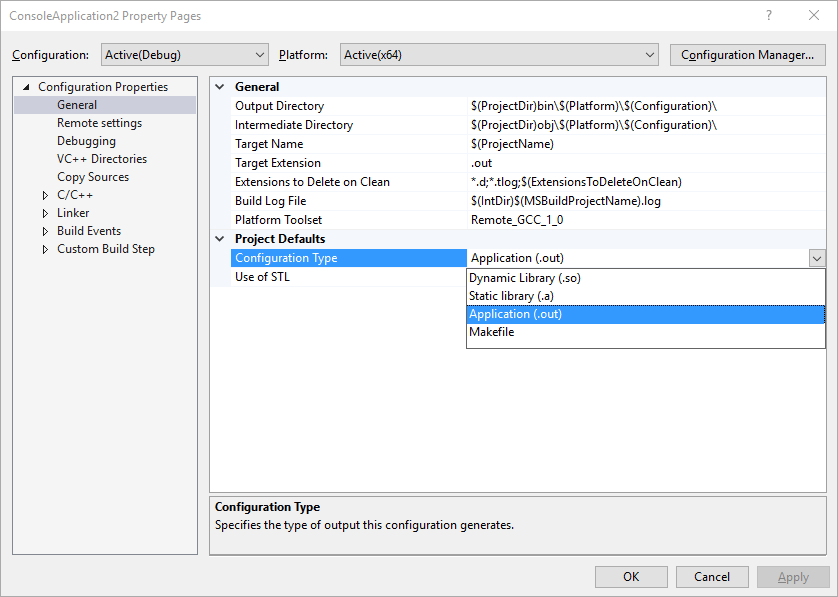
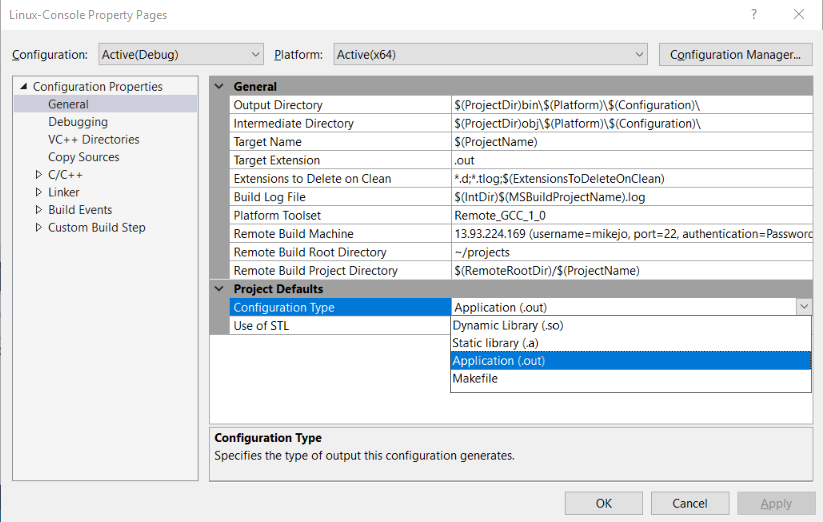
refresh of Linux run and debugging content

Changed region(s): [[0.0, 0.0, 1.0, 1.0], [0.9113, 0.0, 0.9721, 0.0307], [0.0, 0.9808, 0.0304, 1.0]]

diff --git a/docs/linux/configure-a-linux-project.md b/docs/linux/configure-a-linux-project.md
@@ -1,7 +1,7 @@
 ---
-title: "Configure a Linux Project | Microsoft Docs"
+title: "Configure a Linux project | Microsoft Docs"
 ms.custom: ""
-ms.date: "11/16/2016"
+ms.date: "11/06/2017"
 ms.reviewer: ""
 ms.suite: ""
 ms.technology: ["cpp-linux"]
@@ -13,29 +13,28 @@ ms.author: "corob"
 manager: "ghogen"
 ---
 
-# Configure a Linux Project
+# Configure a Linux project
 
-## General Settings
-A variety of options can be configured for a Linux project with Visual Studio.  To view these options, select the **Project > Properties** menu, or right click on the project in **Solution Explorer** and select **Properties** from the context menu:
+## General settings
+A variety of options can be configured for a Linux project with Visual Studio.  To view these options, select the **Project > Properties** menu, or right click on the project in **Solution Explorer** and select **Properties** from the context menu. The **General** settings appear.
 
 ![General configuration](media/settings_general.png)
 
 By default, an executable (.out) is built with the tool.  To build a static or dynamic library, or to use an existing Makefile, use the **Configuration Type** selection.
 
-## Remote Settings
-To change settings pertaining to the remote Linux computer, select the **Remote settings** item:
+## Remote settings
+To change settings pertaining to the remote Linux computer, configure the remote options that appear in the **General** settings:
 
-![Remote settings](media/settings_remote.png)
+* To change the target Linux computer, use the **Remote Build Machine** entry.  This will allow you to select one of the connections created previously.  To create a new entry, please see the [Connecting to Your Remote Linux Computer](connect-to-your-remote-linux-computer.md) section.
 
-* To change the target Linux computer, use the **Target machine** entry.  This will allow you to select one of the connections created previously.  To create a new entry, please see the [Connecting to Your Remote Linux Computer](connect-to-your-remote-linux-computer.md) section.
+* The **Remote Build Root Directory** determines the root location of where the project is built on the remote Linux computer.  This will default to **~/projects** unless changed.
 
-* The **Remote Root Directory** determines the root location of where the project is built on the remote Linux computer.  This will default to **~/projects** unless changed.
+* The **Remote Build Project Directory** is where this specific project will be built on the remote Linux computer.  This will default to **$(RemoteRootDir)/$(ProjectName)**, which will expand to a directory named after the current project, under the root directory set above.
 
-* The **Remote Project Directory** is where this specific project will be built on the remote Linux computer.  This will default to **$(RemoteRootDir)/$(ProjectName)**, which will expand to a directory named after the current project, under the root directory set above.
+> [!NOTE]
+> To change the default C and C++ compilers, or the Linker and Archiver used to build the project, use the appropriate entries in the **C/C++ > General** section and the **Linker > General** section.  These could be set to use a certain version of GCC, or even the Clang compiler, for example.
 
-* Finally, to change the default C and C++ compilers, or the Linker and Archiver used to build the project, use the appropriate entries in the **Tools Defaults** section.  These could be set to use a certain version of GCC, or even the Clang compiler, for example.
-
-## VC++ Directories
+## VC++ directories
 By default, Visual Studio does not include any system-level include files from the Linux computer.  For example, items in the **/usr/include** directory are not present in Visual Studio.  For full [IntelliSense](/visualstudio/ide/using-intellisense) support, you will need to copy those files to some location on your development computer and point Visual Studio to this location.  One option is to use scp (Secure Copy) to copy the files.  On Windows 10, you can use [Bash on Windows](https://msdn.microsoft.com/commandline/wsl/about) to run scp.  For previous versions of Windows, you could use something like [PSCP (PuTTY Secure Copy)](http://www.chiark.greenend.org.uk/~sgtatham/putty/download.html).
 
 You can copy the files by using a command similar to the following:
@@ -48,7 +47,7 @@ Once the files are copied, use the **VC++ Directories** item in Project properti
 
 ![VC++ Directories](media/settings_directories.png)
 
-## Copy Sources
+## Copy sources
 When building, the source files on your development PC are copied to the Linux computer and compiled there.  By default, all sources in the Visual Studio project are copied to the locations set in the settings above.  However, additional sources can also be added to the list, or copying sources can be turned off entirely, which is the default for a Makefile project.
 
 * **Sources to copy** determines which sources are copied to the remote computer.  By default, the **@(SourcesToCopyRemotely)** defaults to all source code files in the project, but does not include any asset/resource files, such as images.
@@ -59,8 +58,8 @@ When building, the source files on your development PC are copied to the Linux c
 
   `C:\Projects\ConsoleApplication1\MyFile.cpp:=~/projects/ConsoleApplication1/ADifferentName.cpp;C:\Projects\ConsoleApplication1\MyFile2.cpp:=~/projects/ConsoleApplication1/ADifferentName2.cpp;`
 
-## Build Events
-Since all compilation is happening on a remote computer, several additional Build Events have been added to the Build Events section in Project Properties.  These are **Remote Pre-Build Event**, **Remote Pre-Link Event**, and **Remove Post-Build Event**, and will occur on the remote computer before or after the individual steps in the process.
+## Build events
+Since all compilation is happening on a remote computer, several additional Build Events have been added to the Build Events section in Project Properties.  These are **Remote Pre-Build Event**, **Remote Pre-Link Event**, and **Remote Post-Build Event**, and will occur on the remote computer before or after the individual steps in the process.
 
 ![Build Events](media/settings_buildevents.png)
 

diff --git a/docs/linux/deploy-run-and-debug-your-linux-project.md b/docs/linux/deploy-run-and-debug-your-linux-project.md
@@ -1,7 +1,7 @@
 ---
-title: "Deploy, Run, and Debug Your Linux Project | Microsoft Docs"
+title: "Deploy, run, and debug Your Linux project | Microsoft Docs"
 ms.custom: ""
-ms.date: "11/16/2016"
+ms.date: "11/06/2017"
 ms.reviewer: ""
 ms.suite: ""
 ms.technology: ["cpp-linux"]
@@ -13,17 +13,53 @@ ms.author: "corob"
 manager: "ghogen"
 ---
 
-# Deploy, Run, and Debug Your Project
+# Deploy, run, and debug your Linux project
 
-Now that the project is created, you will need to connect to your Linux computer, which is where the code will be compiled, executed, and debugged.
-
-1. Set the remote target architecture using the standard dropdown in Visual Studio as shown:
-   ![Remote Architecture](media/architecture.png)
+Once you have created a Linux project and you have connected to the project using the [Linux Connection Manager](../linux/connect-to-your-remote-linux-computer.md), you can run and debug the project. You compile, execute, and debug the code on the remote target.
 
 There are several ways to interact with and debug your Linux project.
 
-* The traditional Visual Studio features, such as breakpoints, watch windows, and hovering over a variable, will all work as expected, so you may debug as you normally would.
-* A special Linux Console window can be opened with the **Debug > Linux Console** menu item.
+* Debug using traditional Visual Studio features, such as breakpoints, watch windows, and hovering over a variable, so you may debug as you normally would in other project types.
+* View output from the target computer in a special Linux Console window, which you can also use to send input to the target computer.
+
+## Debug your Linux project
+
+1. Select debugging mode in the **Debugging** property page.
+
+    GDB is used to debug applications running on Linux.  However, this can run in two different modes, which can be selected from the **Debugging Mode** option in the project's **Debugging** property page:
+
+    ![GDB options](media/settings_debugger.png)
+
+    - In **gdbserver** mode, GDB is run locally which connects to gdbserver running on the remote system.  Note that this is the only mode which the Linux Console window supports.
+
+    - In **gdb** mode, the Visual Studio debugger drives GDB on the remote system, which is more compatible if the local version of GDB is not compatible with the version installed on the target computer. |
+
+    > [!NOTE] 
+    > If you are unable to hit breakpoints in gdbserver debugging mode, try gdb mode. gdb must first be [installed](../linux/download-install-and-setup-the-linux-development-workload.md) on the remote target.
+
+2. Select the remote target using the standard **Debug** toolbar in Visual Studio.
+
+    When the remote target is available, you will see it listed by either name or IP address.
+
+    ![Remote target](media/remote_target.png)
+
+    If you have not yet connected to the remote target, you will see an instruction to use [Linux Connection Manager](../linux/connect-to-your-remote-linux-computer.md) to connect to the remote target.
+
+    ![Remote Architecture](media/architecture.png)
+
+3. Set a breakpoint by clicking in the left gutter of some code that you know will execut. A red circle appears.
+
+4. Press **F5** (or **Debug > Start Debugging**) to start debugging.
+
+    When you start debugging the application first will be compiled on the remote target. Any compilation errors will appear in the **Error List** window.
+
+    If there are no errors, the app will start and the debugger will pause at the breakpoint.
+
+    ![Hit a breakpoint](media/hit_breakpoint.png)  
+
+    Now, you can interact with the application in it's current state, view variables, and step through code by pressing command keys such as **F10** or **F11**.
+
+4. If you want to use the Linux Console to interact with your app, select **Debug > Linux Console**.
 
   ![Linux Console menu](media/consolemenu.png)
 
@@ -31,18 +67,11 @@ There are several ways to interact with and debug your Linux project.
 
   ![Linux Console window](media/consolewindow.png)
 
+## Configure other debugging options
+
 * Command line arguments can be passed to the executable using the **Program Arguments** item in the project's **Debugging** property page.
   
   ![Program Arguments](media/settings_programarguments.png)
-
-* GDB is used to debug applications running on Linux.  However, this can run in two different modes, which can be selected from the **Debugging Mode** option in the project's **Debugging** property page:
-
-  ![GDB options](media/settings_debugger.png)
-
-  | Selection | Description
-  | --------- | ---
-  | gdbserver | GDB is run locally which connects to gdbserver running on the remote system.  Note that this is the only mode which the Linux Console window supports. 
-  | gdb       | the Visual Studio debugger drives GDB on the remote system, which is more compatible if the local version of GDB is not compatible with the version installed on the target computer
 
 * Specific debugger options can be passed to GDB using the **Additional Debugger Commands** entry.  For example, you might want to ignore SIGILL (illegal instruction) signals.  You could use the **handle** command to achieve this.  by adding the following to the **Additional Debugger Commands** entry as shown above:
 

diff --git a/docs/linux/download-install-and-setup-the-linux-development-workload.md b/docs/linux/download-install-and-setup-the-linux-development-workload.md
@@ -1,5 +1,5 @@
 ---
-title: "Download, Install and Setup the Linux Workload | Microsoft Docs"
+title: "Download, install, and setup the Linux workload | Microsoft Docs"
 ms.custom: ""
 ms.date: "11/16/2016"
 ms.reviewer: ""
@@ -13,16 +13,16 @@ ms.author: "corob"
 manager: "ghogen"
 ---
 
-# Download, Install and Setup the Linux Workload
+# Download, install, and setup the Linux workload
 
-## Visual Studio Setup
+## Visual Studio setup
 1. Start the Visual Studio installer and select the **Linux development with C++** workload.
 
    ![Visual C++ for Linux Development extension](media/linuxworkload.png)
 
 2. Click **Install** to continue with the installation.
 
-## Linux Setup
+## Linux setup
 The target Linux computer must have **openssh-server**, **g++**, **gdb**, and **gdbserver** installed, and the ssh daemon must be running.  If these are not already present, you can install them as follows:
  
 1. At a shell prompt on your Linux computer, run:

diff --git a/docs/linux/connect-to-your-remote-linux-computer.md b/docs/linux/connect-to-your-remote-linux-computer.md
@@ -1,7 +1,7 @@
 ---
-title: "Connect to Your Remote Linux Computer | Microsoft Docs"
+title: "Connect to your remote Linux computer | Microsoft Docs"
 ms.custom: ""
-ms.date: "11/16/2016"
+ms.date: "11/06/2017"
 ms.reviewer: ""
 ms.suite: ""
 ms.technology: ["cpp-linux"]
@@ -13,7 +13,7 @@ ms.author: "corob"
 manager: "ghogen"
 ---
 
-# Connect to Your Remote Linux Computer
+# Connect to Your remote Linux computer
 
 When building, Linux code is copied to your remote Linux computer and then compiled on that system according to the settings chosen in Visual Studio.  To setup this remote connection:
 

diff --git a/docs/linux/create-a-new-linux-project.md b/docs/linux/create-a-new-linux-project.md
@@ -1,5 +1,5 @@
 ---
-title: "Create a New Linux Project | Microsoft Docs"
+title: "Create a new Linux project | Microsoft Docs"
 ms.custom: ""
 ms.date: "08/16/2017"
 ms.reviewer: ""
@@ -13,7 +13,7 @@ ms.author: "corob"
 manager: "ghogen"
 ---
 
-# Create a New Linux Project
+# Create a new Linux project
 
 To create a new Linux project in Visual Studio, do the following:
 
